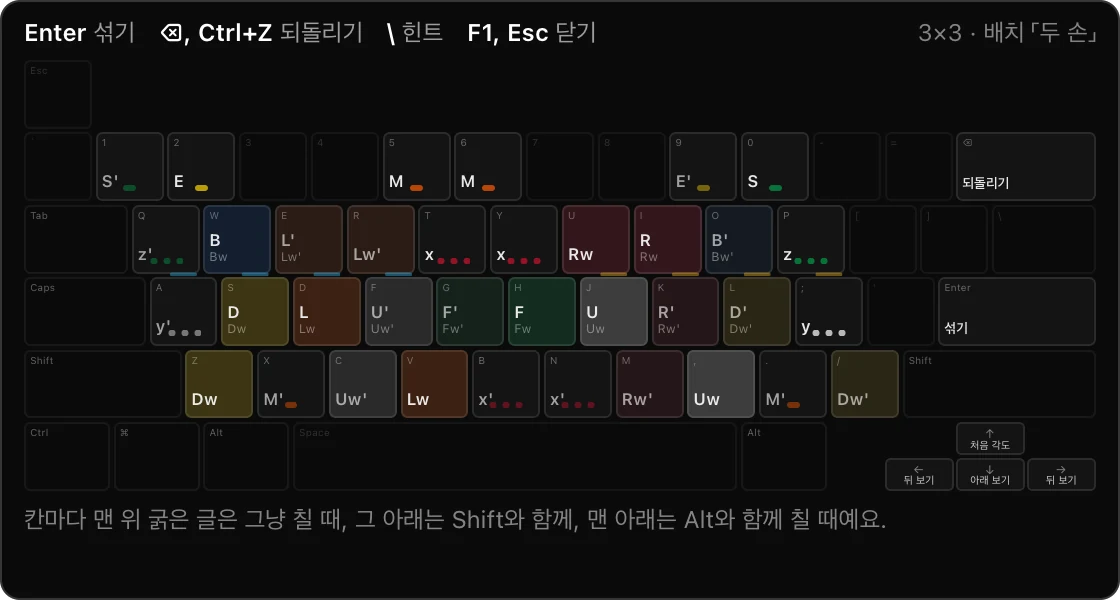
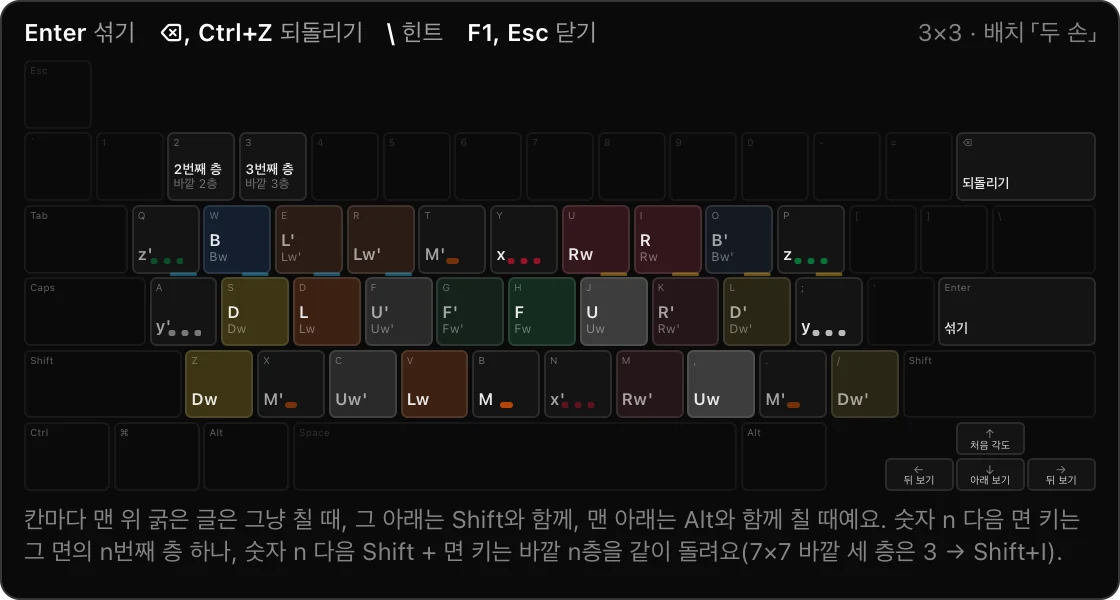
docs(cubie): README 키 그림을 새 「두 손」으로 다시 찍음
WebKit(readme-shots.mjs --keys)으로 찍었다. 숫자 칸 「2번째 층」·「바깥 2층」, T·B = M'·M,
아래 글에 숫자 깊이와 7×7 바깥 세 층(3 → Shift+I) 예.

diff --git a/apps/cubie/README.md b/apps/cubie/README.md
@@ -127,7 +127,7 @@
 
 그림과 아래 글에서 R·L·U·D·F·B는 오른쪽·왼쪽·위·아래·앞·뒤 면을 시계 방향으로 한 번 돌리는 것이고, 뒤에 붙은 '는 반대 방향이에요.
 
-- **두 손**(기본): 실제 큐브를 돌리는 손가락 자리를 옮긴 배치예요. 키마다 돌리는 면은 맨 위 키보드 그림에 있어요. Shift를 함께 누르면 그 면과 바로 안쪽 층을 함께 돌려요.
+- **두 손**(기본): 실제 큐브를 돌리는 손가락 자리를 옮긴 배치예요. 키마다 돌리는 면은 맨 위 키보드 그림에 있어요. Shift를 함께 누르면 그 면과 바로 안쪽 층을 함께 돌려요. 숫자 n을 먼저 치면 다음 면 키는 그 면에서 n번째 층 하나만, Shift + 면 키는 바깥 n층을 함께 돌려요. 숫자는 다음 수 하나에만 붙어요. 그래서 3×3의 가운데 세로 층은 2 다음 I(T·B 키로도 쳐요), 7×7의 바깥 세 층은 3 다음 Shift+I예요.
 
 - **표기**: 면 글자와 같은 키예요. R 키가 R, Shift+R이 R'이고, Alt를 함께 누르면 안쪽 층까지 돌려요.
 
